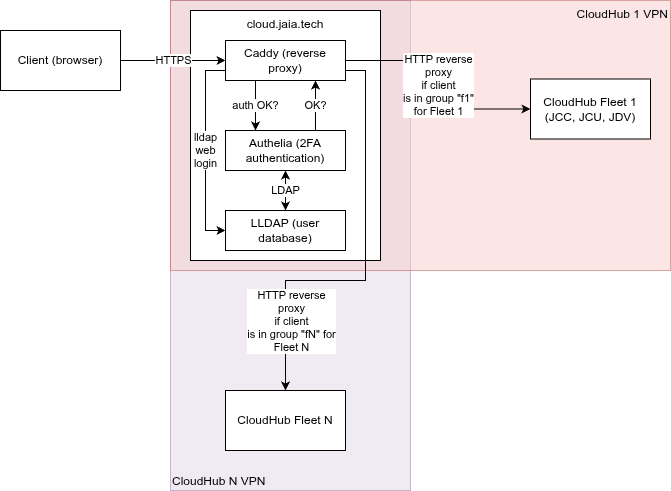
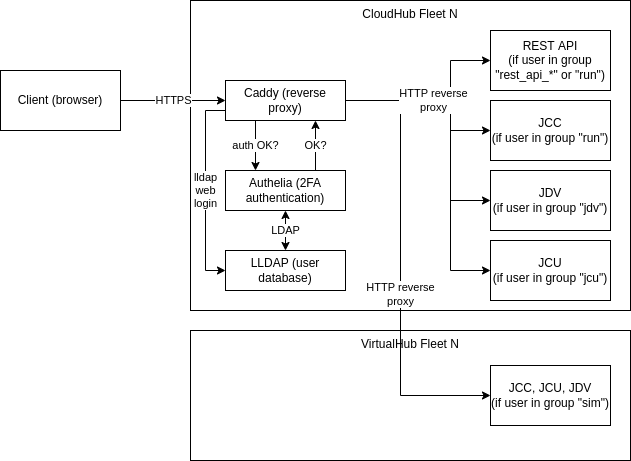
Add required Cloudhub authentication variables to fleet config

diff --git a/scripts/fleet/jaia-generate-first-boot.py b/scripts/fleet/jaia-generate-first-boot.py
@@ -87,7 +87,7 @@ def main():
     parser.add_argument('--debug',  help="Output debugging information", action="store_true")
     parser.add_argument('--hub-ssh-keys-only',  help="Only output the hub SSH keys (skip all other actions). Same as --action=hub_ssh_keys.", action="store_true")
     parser.add_argument('--mode', default="runtime", choices=["runtime", "simulation"], help="Whether this is a real (runtime) or virtual (simulation) system")
-    parser.add_argument('--action', action='append', choices=["hub_ssh_keys", "vpn_key", "first_boot", "store_fleet_cfg", "new_hub_script"], help="Actions to take (default is ['hub_ssh_keys', 'vpn_key', 'first_boot', 'store_fleet_cfg'])")
+    parser.add_argument('--action', action='append', choices=["hub_ssh_keys", "vpn_key", "first_boot", "store_fleet_cfg", "new_hub_script", "write_cloudhub_auth"], help="Actions to take (default is ['hub_ssh_keys', 'vpn_key', 'first_boot', 'store_fleet_cfg'])")
     parser.add_argument('type', choices=["bot", "hub", "rpicam"], help="Type of system to generate for")
     parser.add_argument('id', type=int, help="ID of bot or hub") 
     args = parser.parse_args()
@@ -181,7 +181,7 @@ def main():
                 iridium_cfg = bootdir + '/jaiabot/init/iridium.json'
                 with open(iridium_cfg, "w") as f:
                     json.dump(fleet_cfg_json['comms']['iridiumSbd'], f)
-
+                    
     if type == 'hub':
         if 'hub_ssh_keys' in actions:
             key_found=False
@@ -203,6 +203,20 @@ def main():
             # Also put a copy of fleet config on hubs for future upgrades
             with open(args.fleetcfg, "rb") as src, open(bootdir + f'/jaiabot/init/fleet{fleet_cfg_json["fleet"]}.cfg', "wb") as dst:
                 dst.write(src.read())
+
+        if 'write_cloudhub_auth' in actions:
+            cloudhub_auth_sh = bootdir + '/jaiabot/init/cloudhub_auth.sh'
+
+            if not 'cloudhubAuth' in fleet_cfg_json:
+                # defaults
+                fleet_cfg_json.update({"cloudhubAuth" : {"baseUri": f"fleet{fleet_cfg_json['fleet']}.jaia.tech", "adminEmail" : "matt.ferro@jaia.tech", "smtpAddress": "smtp://smtp-relay.gmail.com:587"}})
+            
+            with open(cloudhub_auth_sh, "w") as sh:
+                sh.write(f"AUTH_BASE_URI={fleet_cfg_json['cloudhubAuth']['baseUri']}\n")
+                sh.write(f"AUTH_ADMIN_EMAIL={fleet_cfg_json['cloudhubAuth']['adminEmail']}\n")
+                sh.write(f"AUTH_SMTP_ADDRESS={fleet_cfg_json['cloudhubAuth']['smtpAddress']}\n")
+            print(f"Wrote cloudhub auth variables to: {cloudhub_auth_sh}")
+
 
     if args.debug:
         print(f"Rendered FleetConfig as JSON: {json.dumps(fleet_cfg_json, indent=2)}")

diff --git a/src/doc/markdown/page056_cloud.md b/src/doc/markdown/page056_cloud.md
@@ -280,9 +280,9 @@ To upgrade an existing server, the following set of steps is recommended:
 6. Power down (stop) the old server.
 7. After some period (e.g., 1-2 weeks or so) of the new server functioning correctly,  disable termination protection for the old server and enable termination protection for the new server (if not already set) under (in the AWS console) `Actions->Instance Settings->Change termination protection`. Terminate (delete) the old instance.
 
-## Cloud Login server (auth.*)
+## Cloud Login server (auth.fleetN.jaia.tech / auth.custom_domain)
 
-Each CloudHub runs its own authentication server, allowing people and machines to access the CloudHub and VirtualFleet securely using 2-factor [2FA] verification for all resources except the REST_API (which allows one-factor tokens).
+Each CloudHub runs its own authentication server, allowing people to access the CloudHub and VirtualFleet securely using 2-factor [2FA] verification for all resources except the REST_API (which allows machines to use one-factor passwords to be used as API tokens).
 
 This provides a more convenient way to access the JCC and other CloudHub applications without requiring that the client machine have the Wireguard VPN installed, and provide more granular permissions.
 
@@ -299,7 +299,7 @@ This server is implemented using three open source projects:
 
 In short, Authelia manages authentication, Caddy manages the reverse proxy (between the insecure HTTP applications and the authenticated HTTPS connection), and LLDAP manages the user information (user names, group, passwords, etc.).
 
-These all run on each CloudHub.
+An instance of all three of these runs on each CloudHub.
 
 ### Required DNS entries
 
@@ -320,9 +320,17 @@ jaiaf6      AAAA    2001:db8::42
 *.jaiaf6    CNAME   jaiaf6.gobysoft.org.
 ```
 
+### Required SMTP
+
+Sending email from the Authelia instance is required for registering new 2FA tokens and password resets. These emails are sent from "noreply@auth.{subdomain}", e.g., "noreply@auth.fleet6.jaia.tech" for a `jaia.tech` hosted Fleet 6.
+
+This requires a working SMTP relay (send) service. To avoid getting these messages in SPAM, you should set up a valid relay with DKIM signing and SPF entries (DNS record for sending server). Additionally you should have an DNS MX record for `auth.{subdomain}`.
+
+For this you can use corporate mail services like Google Workspace (SMTP Relay service), or dedicated mail senders such as Postmark. You can use `https://www.mail-tester.com/` to check the likelihood that your emails will be caught in spam.
+
 ### Available services
 
-### jaia.tech Domains
+#### jaia.tech Domains
 
 CloudHub access (https://fleetN.jaia.tech or https://run.fleetN.jaia.tech):
 
@@ -347,6 +355,6 @@ Supporting web pages:
  	+ Groups: 'lldap_admin'
 - https://auth.fleetN.jaia.tech: Authelia authentication website. Typically the user doesn't need to access this directly unless they want to change their user settings.
 
-### Custom Domains
+#### Custom Domains
 
 Replace `.fleetN.jaia.tech` with your custom domain in the examples above, where your custom domain might be `jaiafleet6.mybusiness.com` or `jaiaf3.university.edu`, as you prefer.
